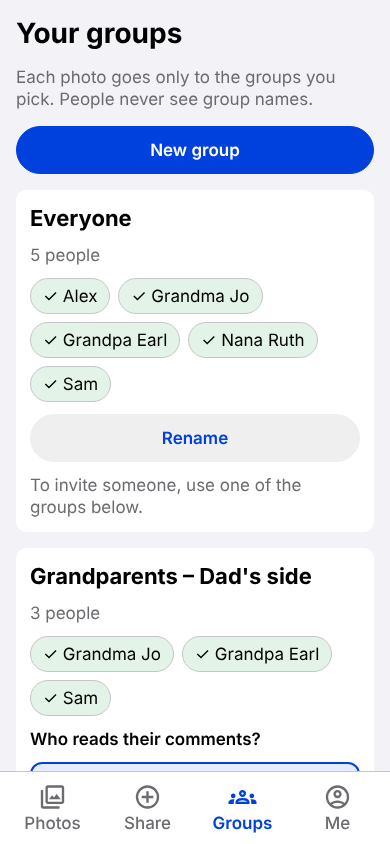
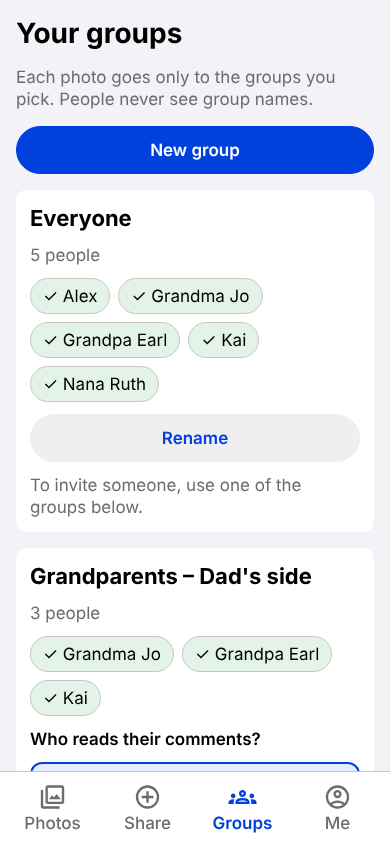
Rename the demo's made-up parent from Sam to Kai
The portfolio credits Chase's real brother Sam, so the demo parent gets
a name no family member has. Re-shoot portfolio screenshots, log in
HANDOFF and add the reply INTAKE for Product Studio.

Claude-Session: https://claude.ai/code/session_01MKPp6TRToWX7aHUK17Fa53

Changed region(s): [[0.5846, 0.3697, 0.8308, 0.4313], [0.1538, 0.4313, 0.4308, 0.4929], [0.1538, 0.8009, 0.3077, 0.8626]]

diff --git a/app/src/demo/__tests__/demoPolish.test.tsx b/app/src/demo/__tests__/demoPolish.test.tsx
@@ -20,9 +20,9 @@ describe('UI-1 compact demo bar', () => {
     await seedDemo(be, pic);
     setDemoViewer(be, who);
     render(<DemoBar be={be} reload={jest.fn()} startOver={jest.fn()} open={jest.fn()} />);
-    const line = screen.getByText(who === 'parent' ? /You're Sam, a parent/ : /You're Grandma Jo/).props.children as string;
+    const line = screen.getByText(who === 'parent' ? /You're Kai, a parent/ : /You're Grandma Jo/).props.children as string;
     expect(line.length).toBeLessThanOrEqual(38); // one line at 390 px
-    const swap = who === 'parent' ? 'See the photos as Grandma Jo sees them' : "Back to Sam's view, the parent";
+    const swap = who === 'parent' ? 'See the photos as Grandma Jo sees them' : "Back to Kai's view, the parent";
     const chips = [words(swap), words('Start over with the sample family'), screen.getByRole('link', { name: "Back to Chase's portfolio" }).findAllByType(Text)[0]!.props.children];
     expect(chips.join('').length).toBeLessThanOrEqual(30);
     expect(StyleSheet.flatten(screen.getByTestId('demo-bar').props.style).paddingTop).toBeLessThanOrEqual(8);

diff --git a/app/src/demo/DemoBar.tsx b/app/src/demo/DemoBar.tsx
@@ -27,15 +27,15 @@ export function DemoBar({ be, reload, startOver, open }: {
     <View style={[styles.bar, { backgroundColor: c.accentSoft, borderBottomColor: c.line }]} testID="demo-bar" accessibilityLabel="About this demo">
       <Txt>
         {viewer === 'parent'
-          ? "Made-up family. You're Sam, a parent."
+          ? "Made-up family. You're Kai, a parent."
           : "You're Grandma Jo, a grandparent."}
       </Txt>
       <View style={styles.row}>
         <Button
           style={styles.btn}
           variant="secondary"
-          label={viewer === 'parent' ? 'See the photos as Grandma Jo sees them' : "Back to Sam's view, the parent"}
-          text={viewer === 'parent' ? 'As Grandma' : 'As Sam'}
+          label={viewer === 'parent' ? 'See the photos as Grandma Jo sees them' : "Back to Kai's view, the parent"}
+          text={viewer === 'parent' ? 'As Grandma' : 'As Kai'}
           onPress={swap}
         />
         <Button style={styles.btn} variant="secondary" label="Start over with the sample family" text="Start over" onPress={startOver} />

diff --git a/app/src/demo/__tests__/demoBar.test.tsx b/app/src/demo/__tests__/demoBar.test.tsx
@@ -22,7 +22,7 @@ describe('DEMO-3 / DEMO-10 demo bar', () => {
   it('DEMO-3 says it is a made-up family, kept in this browser, and who you are', async () => {
     await setup();
     expect(screen.getByText(/made-up family/i)).toBeTruthy();
-    expect(screen.getByText(/You're Sam, a parent/)).toBeTruthy();
+    expect(screen.getByText(/You're Kai, a parent/)).toBeTruthy();
   });
 
   it('DEMO-10 one tap shows Grandma Jo\'s view, and one tap goes back', async () => {
@@ -35,7 +35,7 @@ describe('DEMO-3 / DEMO-10 demo bar', () => {
     expect(screen.getByText(/You're Grandma Jo/)).toBeTruthy();
     // RR-17: two short lines at most, even with Grandma's Bigger text on.
     expect(screen.getByText(/You're Grandma Jo/).props.children.length).toBeLessThanOrEqual(75);
-    fireEvent.press(screen.getByRole('button', { name: "Back to Sam's view, the parent" }));
+    fireEvent.press(screen.getByRole('button', { name: "Back to Kai's view, the parent" }));
     expect(be.state.appSession).toBe(FIXTURE.users.chase.id);
   });
 

diff --git a/app/e2e-web/demo.spec.js b/app/e2e-web/demo.spec.js
@@ -30,8 +30,8 @@ test("DEMO-10 Grandma Jo's view hides the Mom's-side posts; the parent's view sh
   await expect(page.getByText(/You're Grandma Jo/)).toBeVisible();
   await expect(page.getByText('Pumpkin patch day', { exact: true })).toBeVisible();
   await expect(page.getByText('Canoe day at the lake', { exact: true })).toHaveCount(0);
-  await page.getByRole('button', { name: "Back to Sam's view, the parent" }).click();
-  await expect(page.getByText(/You're Sam, a parent/)).toBeVisible();
+  await page.getByRole('button', { name: "Back to Kai's view, the parent" }).click();
+  await expect(page.getByText(/You're Kai, a parent/)).toBeVisible();
   await page.getByText('Canoe day at the lake', { exact: true }).scrollIntoViewIfNeeded();
   await expect(page.getByText('Canoe day at the lake', { exact: true })).toBeVisible();
 });

diff --git a/app/src/demo/__tests__/seed.test.ts b/app/src/demo/__tests__/seed.test.ts
@@ -54,10 +54,10 @@ describe('DEMO-1..3, DEMO-10 sample-data demo', () => {
     expect(plain).toEqual((await picture(first.pictures[0]!)).display);
   });
 
-  it('DEMO-3 sample data has made-up names only (the parent is "Sam", never the founder)', async () => {
+  it('DEMO-3 sample data has made-up names only (the parent is "Kai", never the founder)', async () => {
     const be = await seeded();
     const names = Object.values(be.state.users).map((u) => u.name);
-    expect(names).toEqual(expect.arrayContaining(['Sam', 'Grandma Jo']));
+    expect(names).toEqual(expect.arrayContaining(['Kai', 'Grandma Jo']));
     expect(JSON.stringify(be.state.users)).not.toMatch(/chase/i);
     expect(Object.values(DEMO_NAMES)).not.toContain('Chase');
     expect(be.state.spaces[F.space.id]!.name).toBe('Mia and Leo');

diff --git a/app/e2e-web/site.spec.js b/app/e2e-web/site.spec.js
@@ -30,7 +30,7 @@ test("DEMO-5 Grandma's view and Start over stay inside /demo/hearth/", async ({ 
   await expect(page.getByText(/You're Grandma Jo/)).toBeVisible();
   expect(new URL(page.url()).pathname).toMatch(/^\/demo\/hearth\/photos\/?$/);
   await page.getByRole('button', { name: 'Start over with the sample family' }).click();
-  await expect(page.getByText(/You're Sam, a parent/)).toBeVisible();
+  await expect(page.getByText(/You're Kai, a parent/)).toBeVisible();
   expect(new URL(page.url()).pathname).toMatch(/^\/demo\/hearth\//);
 });
 

diff --git a/app/e2e-web/demo-showcase.spec.js b/app/e2e-web/demo-showcase.spec.js
@@ -75,7 +75,7 @@ for (const size of SIZES) {
       await shot('not-found');
       await page.goto('');
       await page.getByRole('button', { name: 'Start over with the sample family' }).click();
-      await expect(page.getByText(/You're Sam, a parent/)).toBeVisible();
+      await expect(page.getByText(/You're Kai, a parent/)).toBeVisible();
       await ctx.close();
     });
   }

diff --git a/app/src/demo/seed.ts b/app/src/demo/seed.ts
@@ -9,7 +9,7 @@ const DAY = 864e5;
 
 /** Made-up names only (DEMO-3). The fixture's parent is renamed so no real person appears. */
 export const DEMO_NAMES: Record<string, string> = {
-  [F.users.chase.id]: 'Sam',
+  [F.users.chase.id]: 'Kai',
   [F.users.alex.id]: 'Alex',
 };
 

diff --git a/HANDOFF.md b/HANDOFF.md
@@ -117,6 +117,7 @@
 - Chase pasted the demo INTAKE into Product Studio (Oct 22). Next: messenger test MS3.
 
 ## Portfolio / public presence
+- **Oct 30, demo parent renamed (Product Studio INTAKE):** Hearth is featured on the portfolio homepage (portfolio PR #38), and the site credits Chase's real brother Sam, so the demo's made-up parent "Sam" is now "Kai" (no family member has that name; three letters keeps the demo bar on one line). Changed `app/src/demo/seed.ts`, `DemoBar.tsx`, their tests and the web e2e specs; re-shot `docs/portfolio/screens/` (the old shots said "Sam"). Rebuilt the demo from main: `portfolio/hearth-demo-site-2026-10-30.tgz` in the project files. Checks: 677 app tests, 993 database checks, demo + showcase sweep green. Reply to Product Studio: `docs/portfolio/INTAKE-2026-10-30-demo-rename.md`. Backend SQL fixtures still use a child named Sam; they are never shown publicly. **Next:** Product Studio re-copies demo/hearth/ and the screenshots.
 - **Oct 22, shipped (portfolio PR #15, merged and deploying):** Product Studio hosts the no-login demo at chaseholroyd.com/demo/hearth/ (copied from `app/dist-demo-site/`, built from main 10001df) and refreshed family-photos.html per `INTAKE-2026-10-22-demo.md`. The page now has "Try the demo", named groups, AES-256-GCM and MLS, no "Seen by" count, eight agents, 600+ app tests and 800+ database checks, a laptop shot and three phone shots. The placeholder name is kept, and neither expo.app nor the repo is linked. To update the hosted demo later, rebuild here and send Product Studio an intake to re-copy `dist-demo-site/`. Note: the demo bundle's Expo config includes the Expo owner slug (not a link or a secret). **Next:** open chaseholroyd.com/demo/hearth/ on a phone and a laptop and re-run the review against the live URL.
 - **Oct 22:** chaseholroyd.com/family-photos.html already shows Hearth under a placeholder name ("name coming"); Product Studio owns that page. Hearth handed Product Studio an INTAKE block (`docs/portfolio/INTAKE-2026-10-22.md`): refresh the test counts, add three sample-data iPhone screenshots from `docs/portfolio/screens/`, add the encryption and "no Seen by" points.
 - **Oct 22, recruiter-ready sprint v2:** review in `docs/reviews/2026-10-22-recruiter-ready.md` (RR-1..16: 5 P0, 7 P1, 4 P2). Main gap: no no-login sample-data demo. Fix loop builds one (demo build, sample pictures, demo bar, laptop frame) for Product Studio to host at chaseholroyd.com/demo/hearth/. Round 1a done: demo build with a sample family, demo bar, Grandma's view (`npm run export:web:demo`, `npm run e2e:demo`). Round 1b done: laptop frame with a story panel, plain not-found page. Round 1c done: `npm run build:demo-site` builds the demo for chaseholroyd.com/demo/hearth/ (tested on a Pages-like static server). Round 1d done: README and case study agree (600+ app tests, 800+ database checks, eight agents, demo), portfolio screenshots re-shot from the demo, new INTAKE. Round 2 done: every demo screen re-checked (no new P0/P1), RR-11 groups words, RR-13 test-all exit code, RR-17 shorter demo bar. **Exact next step:** RR-4 waits on Product Studio (Chase pastes `docs/portfolio/INTAKE-2026-10-22-demo.md`). Round 3 done: RR-15 (full-screen photo survives a reload on a static host). Left: RR-16 (confirm disabled buttons with a real user; nothing to build). Round 4 (nightly run, Oct 22): fresh re-check found RR-18 (Messages counted parents without saying so; fixed with "Parents are in every chat.") and RR-19 (a stale next-step line in this file; fixed). **Oct 24: published and checked live.** chaseholroyd.com/demo/hearth/ passed the full showcase sweep at phone and laptop width, light and dark (`SHOWCASE_BASE=https://chaseholroyd.com/demo/hearth/ SHOWCASE_DIR=<dir> npm run e2e:demo -- demo-showcase.spec.js`). Full screen survives a reload, and family-photos.html carries the Oct 22 INTAKE. Review: `docs/reviews/2026-10-24-share-ready.md`.

diff --git a/docs/portfolio/INTAKE-2026-10-30-demo-rename.md b/docs/portfolio/INTAKE-2026-10-30-demo-rename.md
@@ -1,0 +1,12 @@
+INTAKE for Product Studio (from Hearth, Oct 30, 2026): demo parent renamed, demo rebuilt
+
+Repo: holroydchase-afk.github.io (portfolio). Folder: demo/hearth/. Page: family-photos.html and the homepage feature (portfolio PR #38). Owner: Product Studio.
+
+Done in Hearth (answers your Oct 30 INTAKE):
+
+1. The demo's made-up parent is now "Kai", not "Sam" (the site credits Chase's real brother Sam). Every visible place changed: demo bar ("Made-up family. You're Kai, a parent.", "As Kai"), card author, "Sent by Kai", Me ("You're Kai, in the made-up sample family."). The built bundle has no "Sam" left.
+2. Rebuilt from Hearth main (commit in the thread reply; `cd app && bash scripts/build-demo.sh`). Ready-made: project files `portfolio/hearth-demo-site-2026-10-30.tgz`, unpack into demo/hearth/ in place of the current contents.
+3. Re-shot screenshots in Hearth `docs/portfolio/screens/` (laptop-01-demo.png and iphone-01..07). Replace any copies on the site that show "Sam".
+4. Counts still true: 677 app tests (660+) and 993 database checks (960+), all passing.
+
+Ask: re-copy demo/hearth/ from the tarball, swap the screenshots, and replace any "Sam" the page uses for the demo parent with "Kai". Then re-run the live sweep (`SHOWCASE_BASE=https://chaseholroyd.com/demo/hearth/ SHOWCASE_DIR=<dir> npm run e2e:demo -- demo-showcase.spec.js` in Hearth/app). Unchanged rules: placeholder name, no expo.app or repo link.
